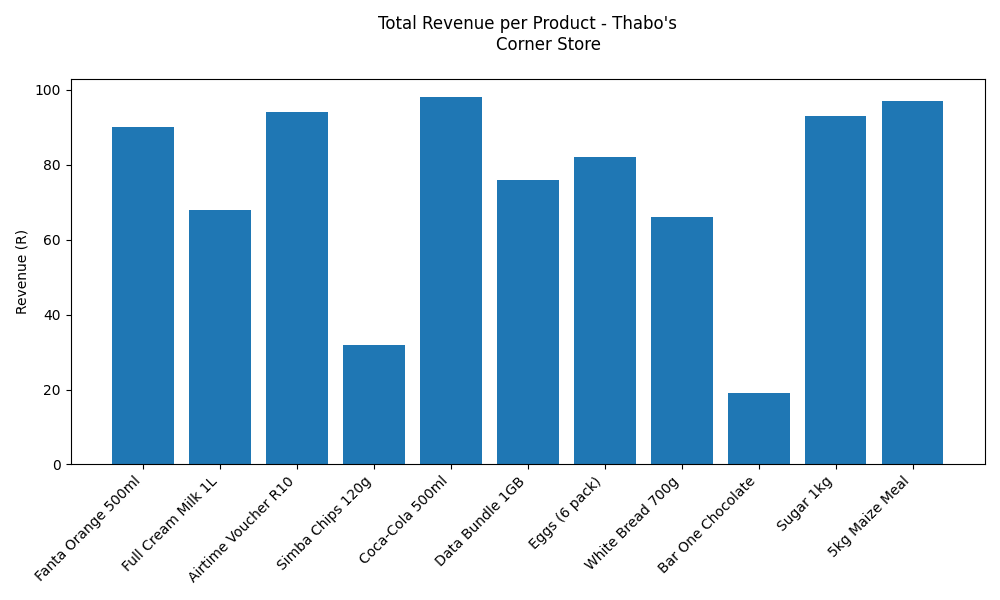
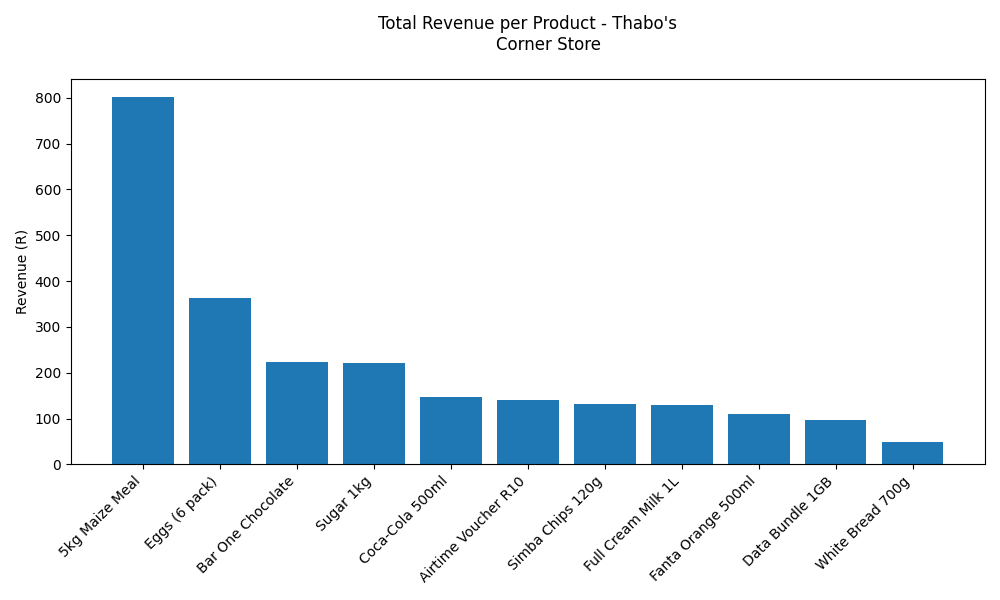
Prototype code (main_proto.py) for main.py completed.

diff --git a/main_proto.py b/main_proto.py
@@ -1,0 +1,73 @@
+import os
+import pandas as pd
+
+import data_cleaning_proto as data_cleaning
+import database_proto as database
+import analysis_proto as analysis
+import visualize_proto as visualize
+import security_proto as security
+
+DATA_DIR = "../data/"
+
+PRODUCTS_CSV = DATA_DIR + "products.csv"
+SALES_CSV = DATA_DIR + "sales.csv"
+DB_PATH = DATA_DIR + "store.db"
+
+def main():
+    print("=" * 60)
+    print("Thabo's Corner Store — Sales Insights System")
+    print("=" * 60)
+
+    # ---- Task 6: security gate -------------------------------------
+    if not security.login_gate(security.STORED_PASSWORD_HASH):
+        return
+
+    # ---- Task 2: load & clean data ----------------------------------
+    print("\n[1/5] Loading raw data...")
+    raw_products, raw_sales = data_cleaning.load_raw_data(PRODUCTS_CSV, SALES_CSV)
+
+    print("[2/5] Cleaning data...")
+    clean_products = data_cleaning.clean_products(raw_products)
+    valid_ids = clean_products["product_id"].tolist()
+    clean_sales = data_cleaning.clean_sales(raw_sales, valid_product_ids=valid_ids)
+    print(data_cleaning.cleaning_summary(raw_products, clean_products, "products"))
+    print(data_cleaning.cleaning_summary(raw_sales, clean_sales, "sales"))
+
+    # ---- Task 3: build the database ---------------------------------
+    print("\n[3/5] Building database...")
+    conn = database.get_connection(DB_PATH)
+    database.create_tables(conn)
+    database.insert_products(conn, clean_products)
+    database.insert_sales(conn, clean_sales)
+
+    print("\nSample SQL query results — revenue per product:")
+    for row in database.query_total_revenue_per_product(conn):
+        print("   ", row)
+
+    # ---- Task 4: programming logic / analysis -----------------------
+    print("\n[4/5] Running analysis...")
+    sales_records = clean_sales.to_dict("records")
+    products_records = clean_products.to_dict("records")
+
+    print("Total sales records:", analysis.total_sales_records(sales_records))
+    print("Low stock alerts:", analysis.low_stock_alert(products_records))
+    trend = analysis.monthly_sales_trend(sales_records)
+    print("Monthly trend:", trend)
+    print("Average basket size:", analysis.average_basket_size(sales_records))
+
+    # ---- Task 5: visualisation ---------------------------------------
+    print("\n[5/5] Generating charts...")
+    revenue_rows = database.query_total_revenue_per_product(conn)
+    names = [r[0] for r in revenue_rows]
+    revenues = [r[1] for r in revenue_rows]
+    visualize.bar_chart_revenue_per_product(names, revenues)
+    visualize.line_chart_monthly_trend(trend)
+    print("Charts saved as revenue_per_product.png and monthly_trend.png")
+
+    conn.close()
+    print("\nDone! Don't forget to commit and push your progress to GitHub.")
+
+
+if __name__ == "__main__":
+    main()
+

diff --git a/database_proto.py b/database_proto.py
@@ -195,25 +195,25 @@ def show_db_changes(conn: sqlite3.Connection, table: str) -> None:
     for row in cursor.fetchall():
         print(row)
 
-conn = get_connection()
-(products_df, sales_df) = data_cleaning_proto.load_raw_data(PRODUCTS_CSV, SALES_CSV)
-products_df = data_cleaning_proto.clean_products(products_df)
+#conn = get_connection()
+#(products_df, sales_df) = data_cleaning_proto.load_raw_data(PRODUCTS_CSV, SALES_CSV)
+#products_df = data_cleaning_proto.clean_products(products_df)
 
-valid_product_ids = products_df["product_id"].astype(str).str.strip().tolist()
-sales_df = data_cleaning_proto.clean_sales(sales_df, valid_product_ids)
+#valid_product_ids = products_df["product_id"].astype(str).str.strip().tolist()
+#sales_df = data_cleaning_proto.clean_sales(sales_df, valid_product_ids)
 
-create_tables(conn)
+#create_tables(conn)
 
-print("[+] INSERTING PRODUCTS")
-insert_products(conn, products_df)
-show_db_changes(conn, "products")
+#print("[+] INSERTING PRODUCTS")
+#insert_products(conn, products_df)
+#show_db_changes(conn, "products")
 
-print("[+] INSERTING SALES")
-insert_sales(conn, sales_df)
-show_db_changes(conn, "sales")
+#print("[+] INSERTING SALES")
+#insert_sales(conn, sales_df)
+#show_db_changes(conn, "sales")
 
-print(query_total_revenue_per_product(conn))
-print(query_best_selling_product(conn))
-print(query_sales_by_payment_method(conn))
-print(query_custom_one(conn))
-print(query_custom_two(conn))
+#print(query_total_revenue_per_product(conn))
+#print(query_best_selling_product(conn))
+#print(query_sales_by_payment_method(conn))
+#print(query_custom_one(conn))
+#print(query_custom_two(conn))

diff --git a/security_proto.py b/security_proto.py
@@ -31,8 +31,5 @@ def login_gate(stored_hash: str, max_attempts: int = 3) -> bool:
     return False
 
 
-
-password = getpass.getpass("[sudo] password for root: ")
-hash = hash_password(password)
-print(hash)
-login_gate(hash, 3)
+STORED_PASSWORD_STR = "admin1"
+STORED_PASSWORD_HASH = hash_password(STORED_PASSWORD_STR)
